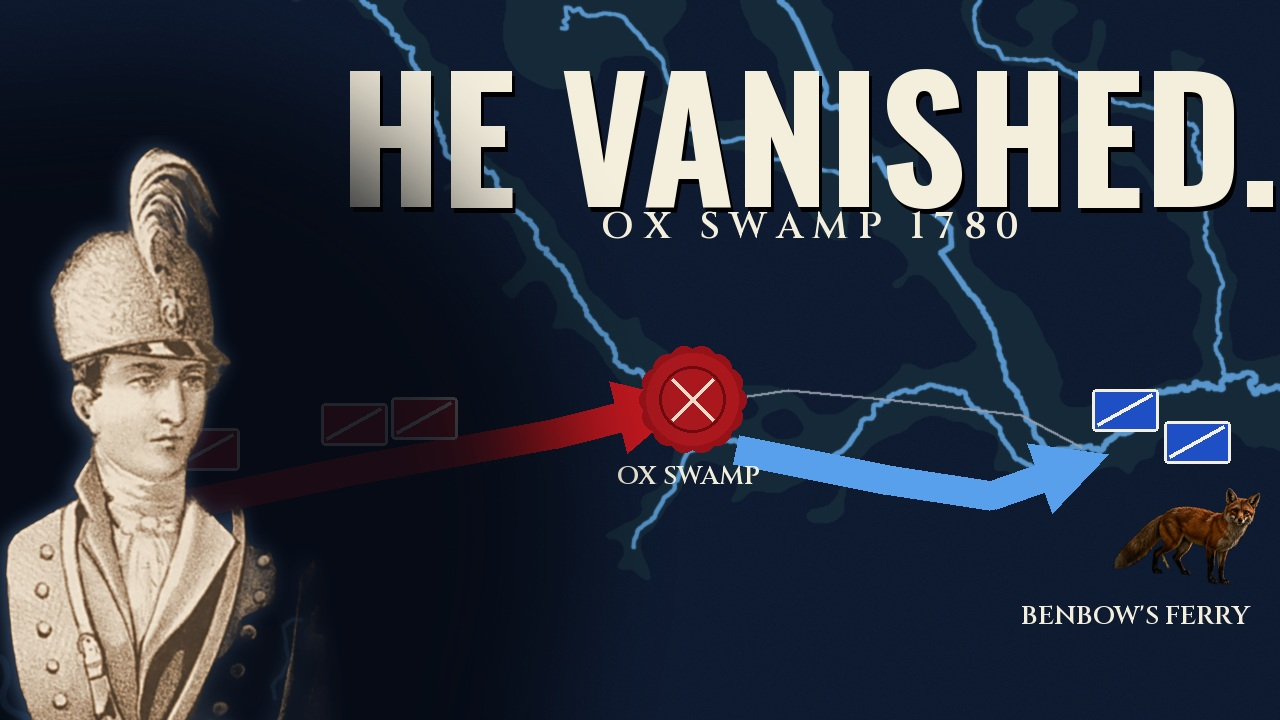
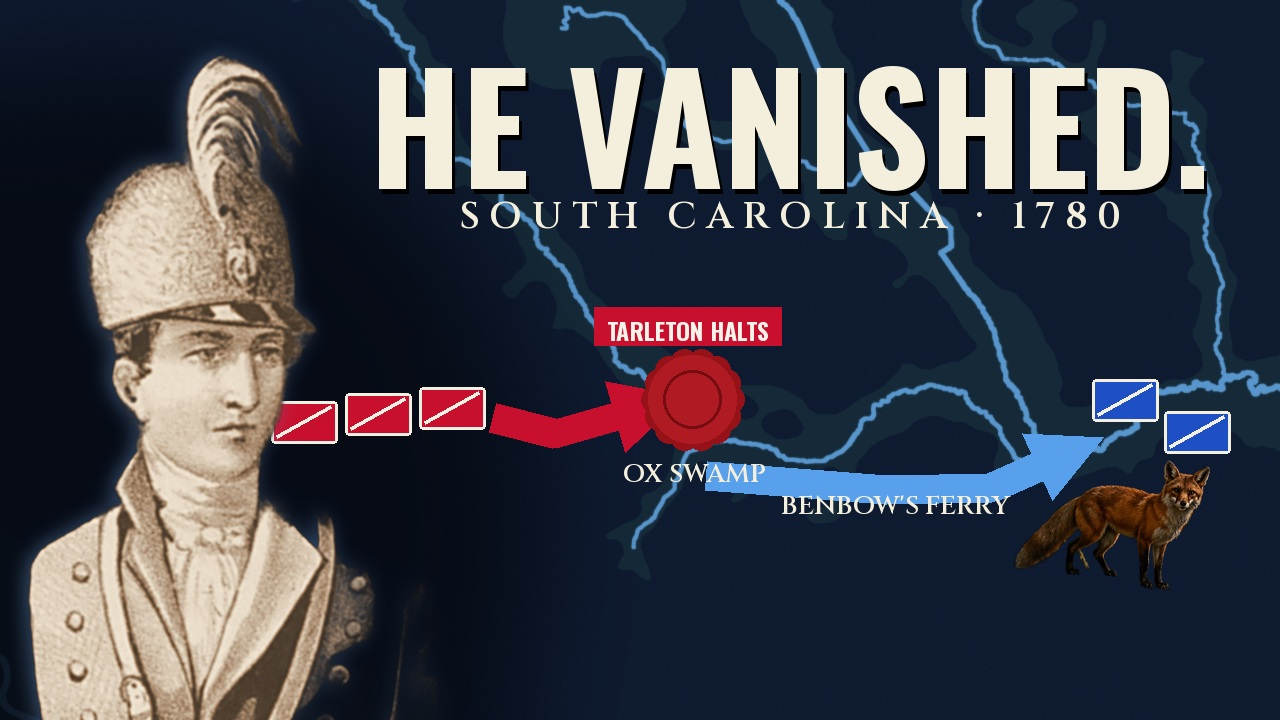
Marion #18: final thumbnails after two critics (UNCATCHABLE main, HE VANISHED. alternative)
Claude-Session: https://claude.ai/code/session_011uJnjBffWtk5uPnY98RFHf

Changed region(s): [[0.0, 0.0611, 1.0, 1.0], [0.6875, 0.55, 0.7812, 0.5806], [0.2812, 0.9778, 0.3125, 1.0]]

diff --git a/marion/tools/make_thumb_final.py b/marion/tools/make_thumb_final.py
@@ -7,7 +7,7 @@ W, H = 1280, 720; OS = "tools/oswald-latin-700-normal.ttf"; SER = "tools/cinzel-
 bust = Image.open("youtube/thumb/marion_lc_bust_cut.png").convert("RGBA").crop((230, 10, 650, 760))
 def tone(im, warm=True):
     a = im.split()[3]; g = ImageEnhance.Contrast(ImageOps.grayscale(im.convert("RGB")).filter(ImageFilter.GaussianBlur(1.1))).enhance(1.12)
-    c = ImageOps.colorize(g, black=(22, 16, 10), mid=(160, 128, 98), white=(250, 240, 222)) if warm else ImageOps.colorize(g, black=(14, 12, 10), mid=(132, 124, 112), white=(238, 232, 220))
+    c = ImageOps.colorize(g, black=(22, 16, 10), mid=(160, 128, 98), white=(250, 240, 222)) if warm else ImageOps.colorize(g, black=(14, 12, 10), mid=(150, 140, 126), white=(250, 245, 236))
     c = c.filter(ImageFilter.UnsharpMask(2, 60, 3)).convert("RGBA"); c.putalpha(a); return c
 def brush(d, x, y, w, h, rng, col=(196, 22, 28)):
     top = [(x + i, y + int(rng.integers(-7, 8))) for i in range(0, w + 1, 20)]
@@ -26,20 +26,24 @@ def curved_arrow(im, p0, p1, bend, col=(250, 250, 250), wid=16):
                (xb + math.cos(ang - 2.4) * Lh * 0.8, yb + math.sin(ang - 2.4) * Lh * 0.8)], fill=col)
 outs = []
 # ---------- (2) GRANT 'THE BACK DOOR' style: battle left, real portrait right on dark, red banner bottom-left ----------
-bg = Image.open("youtube/thumb/bg_vidiq_fox.jpg").convert("RGB")
-bg = bg.crop((0, 40, 1900, 40 + 1069)).resize((W, H), Image.LANCZOS); bg = ImageEnhance.Brightness(ImageEnhance.Contrast(bg).enhance(1.1)).enhance(1.12)
+import cv2
+_b = cv2.imread("youtube/thumb/bg_vidiq_fox.jpg"); _m = np.zeros(_b.shape[:2], np.uint8)
+cv2.ellipse(_m, (1150, 412), (95, 42), 0, 0, 360, 255, -1)          # the lead rider's muzzle flash: he escapes, he does not fire
+_b = cv2.inpaint(_b, _m, 9, cv2.INPAINT_TELEA)
+bg = Image.fromarray(cv2.cvtColor(_b, cv2.COLOR_BGR2RGB))
+bg = bg.crop((0, 0, 2048, 1152)).resize((W, H), Image.LANCZOS); bg = ImageEnhance.Brightness(ImageEnhance.Contrast(bg).enhance(1.1)).enhance(1.12)
 def grant(words, key):
     rng = np.random.default_rng(5); im = bg.copy().convert("RGBA")
     sh = Image.new("RGBA", (W, H), (0, 0, 0, 0)); sd = ImageDraw.Draw(sh)
-    for i in range(470): sd.line([(W - 1 - i, 0), (W - 1 - i, H)], fill=(4, 4, 4, int(245 * (1 - i / 470) ** 1.2)))
+    for i in range(430): sd.line([(W - 1 - i, 0), (W - 1 - i, H)], fill=(3, 3, 3, int(252 * min(1, (1 - i / 430) * 1.6) ** 1.1)))
     im = Image.alpha_composite(im, sh)
-    b = tone(bust, warm=False); hh = int(H * 1.06); ww = int(b.width * hh / b.height); b = b.resize((ww, hh), Image.LANCZOS)
+    b = tone(bust.crop((0, 0, bust.width, 580)), warm=False); hh = int(H * 1.12); ww = int(b.width * hh / b.height); b = b.resize((ww, hh), Image.LANCZOS)
     rim = Image.new("RGBA", b.size, (255, 240, 210, 0)); rim.putalpha(b.split()[3].filter(ImageFilter.GaussianBlur(8)).point(lambda v: int(v * 0.3)))
-    x0 = W - ww + 60; y0 = H - hh + 120; im.alpha_composite(rim, (x0 - 4, y0)); im.alpha_composite(b, (x0, y0))
+    x0 = W - ww + 30; y0 = H - hh + 40; im.alpha_composite(rim, (x0 - 4, y0)); im.alpha_composite(b, (x0, y0))
     d = ImageDraw.Draw(im)
     tag(d, (30, 28), "BLACK RIVER · 1780", (16, 14, 12), 34)
-    tag(d, (300, 140), "TARLETON'S LEGION", (178, 24, 30), 26); tag(d, (690, 260), "MARION", (34, 78, 190), 26)
-    curved_arrow(im, (700, 330), (470, 470), -70)
+    tag(d, (330, 150), "TARLETON'S LEGION", (178, 24, 30), 26); tag(d, (690, 175), "MARION", (34, 78, 190), 26)
+    curved_arrow(im, (720, 330), (430, 420), -80)
     f = ImageFont.truetype(OS, 128); lines = words; lh = 128; tw = max(d.textlength(l, font=f) for l in lines)
     bw, bh = int(tw + 70), int(lh * len(lines) + 30); bx, by = 26, H - bh - 30
     brush(d, bx, by, bw, bh, rng)
@@ -49,26 +53,31 @@ grant(["UNCATCHABLE"], "UNCATCHABLE")
 # ---------- (1) GRAND MANEUVER 'HE WON.' style: navy map + giant cream word + spaced serif line + portrait bottom-left ----------
 g = runpy.run_path("tools/make_thumb_gm.py", run_name="lib")   # reuse its navy map + units + seal + fox
 def gm(word, sub, key):
-    im = g["base"].copy().convert("RGBA"); d = ImageDraw.Draw(im); T = g["T"]; ROAD = g["ROAD"]
+    im = g["base"].copy().convert("RGBA"); T = g["T"]; ROAD = g["ROAD"]
+    sh = Image.new("RGBA", (W, H), (0, 0, 0, 0)); ImageDraw.Draw(sh).ellipse([-300, H - 640, 520, H + 260], fill=(5, 9, 18, 225))
+    im = Image.alpha_composite(im, sh.filter(ImageFilter.GaussianBlur(60))); d = ImageDraw.Draw(im)
     p = [T(q) for q in ROAD]; ox, rx, bx = T(g["OX"]), T(g["RICH"]), T(g["BEN"])
-    g["arrow"](im, [(rx[0] + 40, rx[1] - 6), p[6], p[5], (ox[0] - 36, ox[1] + 4)], (196, 24, 32), 30)
-    for q in [p[7], p[6], (p[6][0] + 70, p[6][1] - 6)]: g["box_unit"](d, (q[0] + 10, q[1] - 48), (196, 24, 32), 66, 42)
-    g["seal"](im, (ox[0] + 6, ox[1] - 6), 46)
-    bp = [(ox[0] + 50, ox[1] + 44), (ox[0] + 200, ox[1] + 74), (bx[0] - 90, bx[1] + 48), (bx[0] - 10, bx[1] + 20)]
+    RB = [(p[6][0] - 40, p[6][1] - 50), (p[6][0] + 34, p[6][1] - 58), (p[6][0] + 108, p[6][1] - 64)]
+    for q in RB: g["box_unit"](d, q, (200, 16, 46), 66, 42)
+    g["arrow"](im, [(RB[-1][0] + 40, RB[-1][1] + 10), p[5], (ox[0] - 40, ox[1] + 2)], (200, 16, 46), 30)
+    sx, sy, r = ox[0] + 6, ox[1] - 6, 44; dd = ImageDraw.Draw(im)
+    for i in range(14):
+        a_ = i / 14 * 2 * math.pi; dd.ellipse([sx + math.cos(a_) * r * 0.85 - r * 0.32, sy + math.sin(a_) * r * 0.85 - r * 0.32, sx + math.cos(a_) * r * 0.85 + r * 0.32, sy + math.sin(a_) * r * 0.85 + r * 0.32], fill=(150, 18, 24))
+    dd.ellipse([sx - r, sy - r, sx + r, sy + r], fill=(176, 26, 34)); dd.ellipse([sx - r * 0.66, sy - r * 0.66, sx + r * 0.66, sy + r * 0.66], outline=(118, 12, 18), width=3)
+    tag(d, (sx - 98, sy - 92), "TARLETON HALTS", (200, 16, 46), 24)
+    bp = [(ox[0] + 20, ox[1] + 70), (ox[0] + 200, ox[1] + 84), (bx[0] - 90, bx[1] + 40), (bx[0] - 14, bx[1] + 6)]
     g["arrow"](im, bp, (88, 160, 235), 30)
-    for q in [(bx[0] + 44, bx[1] - 38), (bx[0] + 116, bx[1] - 6)]: g["box_unit"](d, q, (31, 79, 196), 66, 42)
-    fxc = Image.open("youtube/thumb/fox_cut.png"); fxc = fxc.crop(fxc.getbbox()); fxc.thumbnail((150, 110)); im.alpha_composite(fxc, (int(bx[0] + 30), int(bx[1] + 40)))
+    for q in [(bx[0] + 44, bx[1] - 48), (bx[0] + 116, bx[1] - 16)]: g["box_unit"](d, q, (31, 79, 196), 66, 42)
+    fxc = Image.open("youtube/thumb/fox_cut.png"); fxc = fxc.crop(fxc.getbbox()); fxc.thumbnail((200, 140)); im.alpha_composite(fxc, (int(bx[0] - 70), int(bx[1] + 12)))
     fl = ImageFont.truetype(SER, 26)
-    for txt, (x, y) in [("OX SWAMP", (ox[0] - 70, ox[1] + 52)), ("BENBOW'S FERRY", (bx[0] - 60, bx[1] + 150))]: d.text((x, y), txt, font=fl, fill=(244, 238, 221))
-    f = ImageFont.truetype(OS, 168); d.text((W / 2 + 170 + 3, 6 + 5), word, font=f, fill=(0, 0, 0), anchor="ma"); d.text((W / 2 + 170, 6), word, font=f, fill=(244, 238, 221), anchor="ma")
-    fs = ImageFont.truetype(SER, 38); s = "   ".join(" ".join(w) for w in sub.split()); d.text((W / 2 + 170, 200), s, font=fs, fill=(244, 238, 221), anchor="ma")
-    sh = Image.new("RGBA", (W, H), (0, 0, 0, 0)); ImageDraw.Draw(sh).ellipse([-300, H - 640, 560, H + 260], fill=(5, 9, 18, 225))
-    im = Image.alpha_composite(im, sh.filter(ImageFilter.GaussianBlur(60)))
-    b = tone(bust, warm=True); hh = int(H * 0.98); ww = int(b.width * hh / b.height); b = b.resize((ww, hh), Image.LANCZOS)
+    for txt, (x, y) in [("OX SWAMP", (ox[0] - 64, ox[1] + 50)), ("BENBOW'S FERRY", (bx[0] - 300, bx[1] + 40))]: d.text((x, y), txt, font=fl, fill=(244, 238, 221))
+    f = ImageFont.truetype(OS, 150); d.text((W / 2 + 150 + 3, 10 + 5), word, font=f, fill=(0, 0, 0), anchor="ma"); d.text((W / 2 + 150, 10), word, font=f, fill=(244, 238, 221), anchor="ma")
+    fs = ImageFont.truetype(SER, 38); s = "   ".join(" ".join(w) for w in sub.split()); d.text((W / 2 + 150, 190), s, font=fs, fill=(244, 238, 221), anchor="ma")
+    b = tone(bust.crop((0, 0, bust.width, 600)), warm=True); hh = int(H * 1.0); ww = int(b.width * hh / b.height); b = b.resize((ww, hh), Image.LANCZOS)
     rim = Image.new("RGBA", b.size, (130, 180, 240, 0)); rim.putalpha(b.split()[3].filter(ImageFilter.GaussianBlur(9)).point(lambda v: int(v * 0.4)))
-    x0, y0 = -40, H - hh + 120; im.alpha_composite(rim, (x0 - 4, y0)); im.alpha_composite(b, (x0, y0))
+    x0, y0 = -30, H - hh + 40; im.alpha_composite(rim, (x0 - 4, y0)); im.alpha_composite(b, (x0, y0))
     out = f"youtube/thumb/marion-FINAL-gm-{key}.jpg"; im.convert("RGB").save(out, quality=94); outs.append(out)
-gm("HE VANISHED.", "OX SWAMP 1780", "HE_VANISHED")
+gm("HE VANISHED.", "SOUTH CAROLINA · 1780", "HE_VANISHED")
 s = Image.new("RGB", (2 * 640 + 60, 620), (24, 22, 20)); d = ImageDraw.Draw(s); F2 = ImageFont.truetype(OS, 22)
 for i, o in enumerate(outs):
     im = Image.open(o); x = 20 + i * 660

diff --git a/marion/tools/make_thumb_gm.py b/marion/tools/make_thumb_gm.py
@@ -27,7 +27,7 @@ noise = Image.effect_noise((W, H), 18).convert("L"); base = Image.composite(Imag
 sw = Image.new("RGB", (W, H), (22, 44, 58)); base.paste(sw, (0, 0), swamp.point(lambda v: int(v * 0.85)))
 riv = Image.new("RGB", (W, H), (88, 150, 205)); base.paste(riv, (0, 0), water.filter(ImageFilter.MaxFilter(3)))
 d0 = ImageDraw.Draw(base)
-pts = [T(p) for p in ROAD]; d0.line(pts, fill=(150, 160, 175), width=3)
+pts = [T(p) for p in ROAD]   # (critic: no stray road line)
 base = base.filter(ImageFilter.GaussianBlur(0.6))
 # portrait (real lithograph, rembg cut-out), close-up, warm-toned
 head = Image.open("assets/media/marion_head.png").convert("RGBA"); a = head.split()[3]
